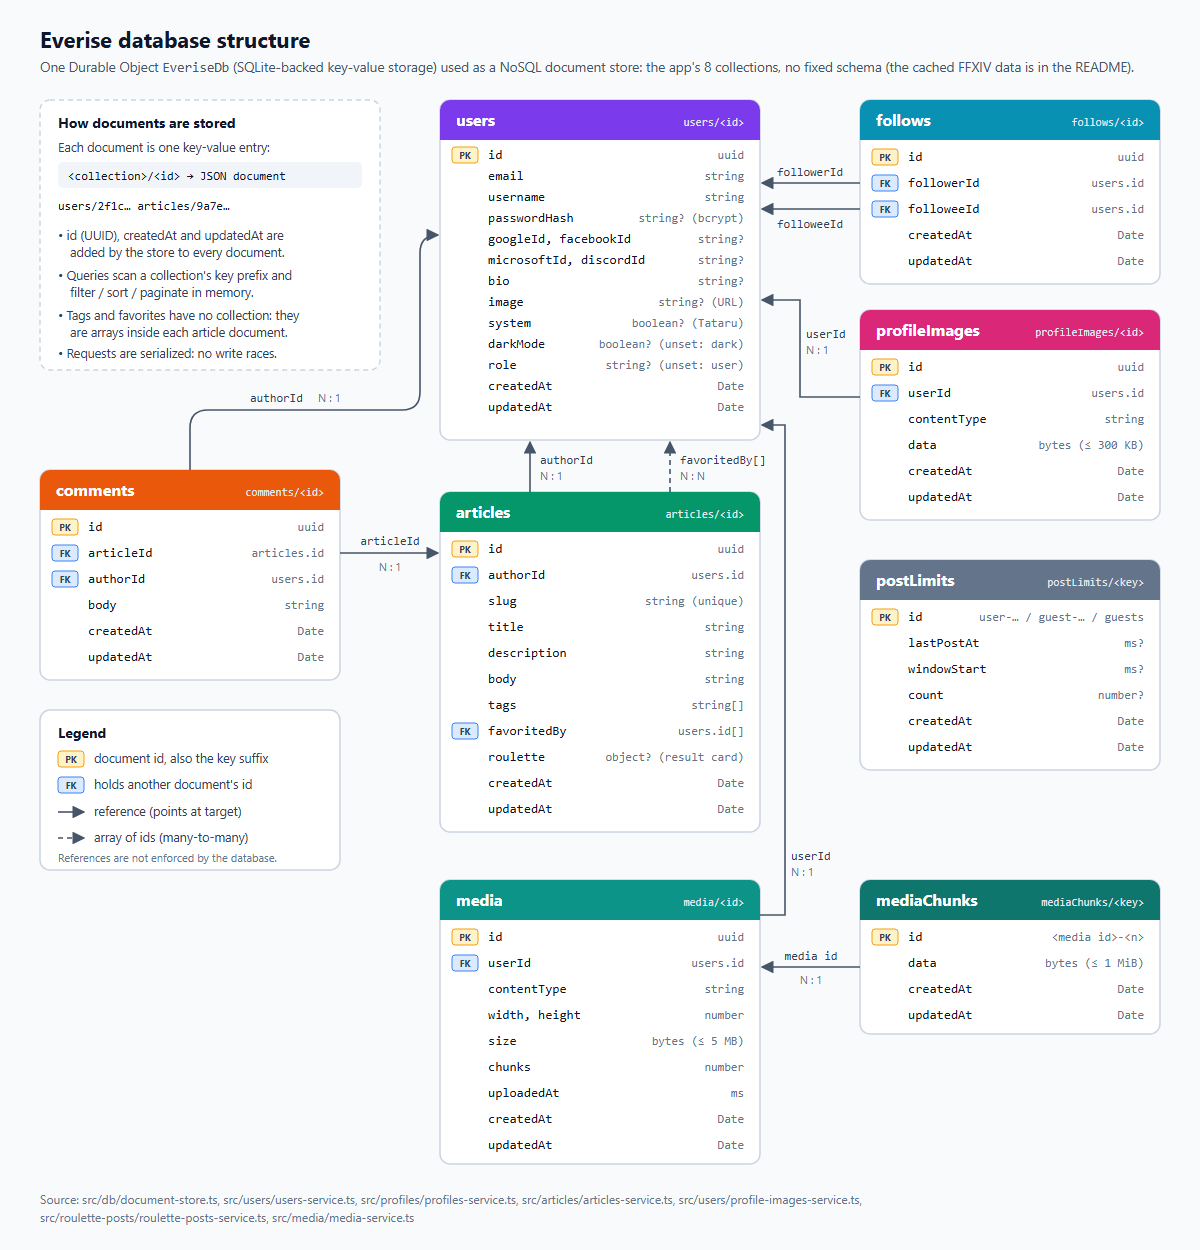
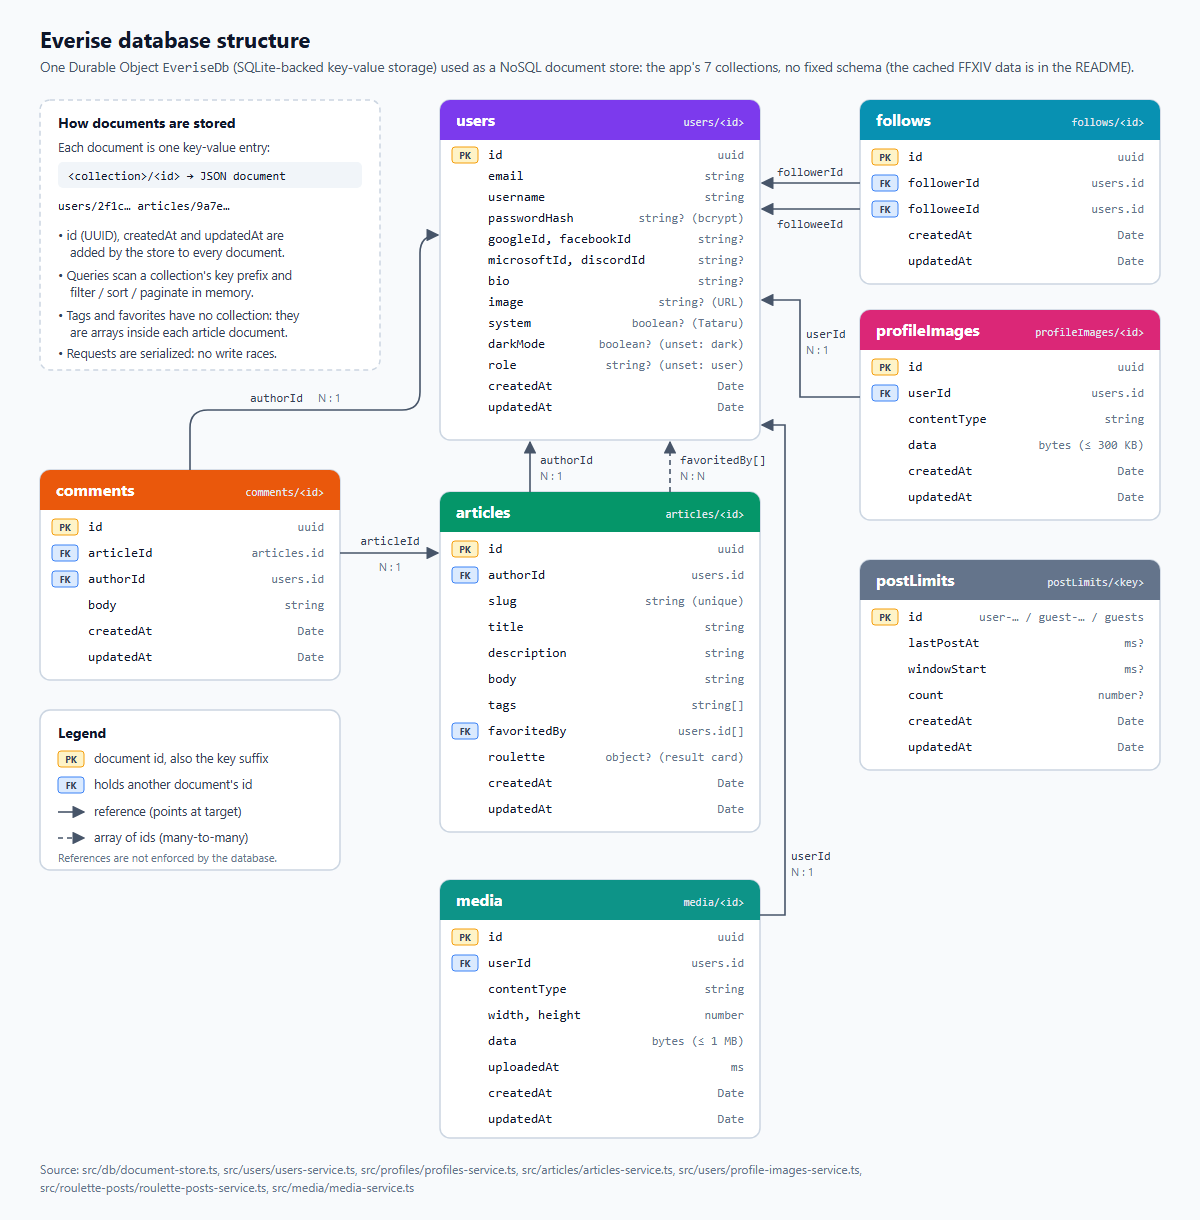
Limit uploads to 1 MB, one document each
The site shrinks large pictures before uploading, so 1 MB is enough; an
upload then fits in one database value, and the mediaChunks collection
goes away.

diff --git a/src/media/media-service.ts b/src/media/media-service.ts
@@ -5,13 +5,12 @@ import {Write} from '../db/db';
 import {InvalidImageError, TooManyRequestsError} from '../errors';
 import {ImageType, readImageInfo} from '../users/image-info';
 
-// Images and GIFs people upload for their posts and comments. A GIF can be
-// several megabytes, more than one database value may hold (2 MiB), so each
-// upload is stored in 1 MiB chunks next to a document describing it.
-const MAX_MEDIA_MB = 5;
-const MAX_MEDIA_BYTES = MAX_MEDIA_MB * 1024 * 1024;
+// Images and GIFs people upload for their posts and comments, one document
+// each with the bytes. The site shrinks large pictures to fit before
+// uploading; GIFs keep their animation, so they must already be small enough.
+const MAX_MEDIA_KB = 1024;
+const MAX_MEDIA_BYTES = MAX_MEDIA_KB * 1024;
 const MAX_MEDIA_SIDE = 4096;
-const CHUNK_BYTES = 1024 * 1024;
 // Uploads per person per day, so nobody fills the free plan's storage.
 const DAILY_UPLOADS = 30;
 const DAY_MS = 24 * 60 * 60 * 1000;
@@ -21,14 +20,9 @@ interface MediaDoc extends Doc {
   contentType: ImageType;
   width: number;
   height: number;
-  size: number;
-  chunks: number;
+  data: Uint8Array;
   // When it was uploaded (ms), by the app's clock, for the daily limit.
   uploadedAt: number;
-}
-
-interface MediaChunkDoc extends Doc {
-  data: Uint8Array;
 }
 
 interface StoredMedia {
@@ -41,7 +35,6 @@ interface StoredMedia {
 
 class MediaService {
   private readonly collection = 'media';
-  private readonly chunksCollection = 'mediaChunks';
 
   constructor(
     private readonly db: Db,
@@ -65,21 +58,12 @@ class MediaService {
     await this.checkDailyLimit(userId);
 
     const id = randomUUID();
-    const chunks = Math.ceil(data.byteLength / CHUNK_BYTES);
-    for (let i = 0; i < chunks; i++) {
-      await this.db.set(this.chunksCollection, chunkId(id, i), {
-        data: data.slice(i * CHUNK_BYTES, (i + 1) * CHUNK_BYTES),
-      });
-    }
-    // Written last: an upload cut short leaves no document pointing at
-    // missing chunks.
     await this.db.set(this.collection, id, {
       userId,
       contentType: info.type,
       width: info.width,
       height: info.height,
-      size: data.byteLength,
-      chunks,
+      data,
       uploadedAt: this.now().getTime(),
     });
     return {
@@ -93,40 +77,17 @@ class MediaService {
 
   async get(id: string) {
     const doc = await this.db.get<MediaDoc>(this.collection, id);
-    if (!doc) return undefined;
-    const parts: Uint8Array[] = [];
-    for (let i = 0; i < doc.chunks; i++) {
-      const chunk = await this.db.get<MediaChunkDoc>(
-        this.chunksCollection,
-        chunkId(id, i)
-      );
-      if (!chunk) return undefined;
-      parts.push(new Uint8Array(chunk.data));
-    }
-    const data = new Uint8Array(doc.size);
-    let offset = 0;
-    for (const part of parts) {
-      data.set(part, offset);
-      offset += part.byteLength;
-    }
-    return {contentType: doc.contentType, data};
+    return doc && {contentType: doc.contentType, data: doc.data};
   }
 
   // The writes that delete everything a person uploaded, e.g. with their
   // account.
   async deletionsFor(userId: string): Promise<Write[]> {
-    const docs = await this.uploadsOf(userId);
-    return docs.flatMap(doc => [
-      ...Array.from(
-        {length: doc.chunks},
-        (_, i): Write => ({
-          op: 'delete',
-          collection: this.chunksCollection,
-          id: chunkId(doc.id, i),
-        })
-      ),
-      {op: 'delete', collection: this.collection, id: doc.id} as Write,
-    ]);
+    return (await this.uploadsOf(userId)).map(doc => ({
+      op: 'delete',
+      collection: this.collection,
+      id: doc.id,
+    }));
   }
 
   private async checkDailyLimit(userId: string) {
@@ -151,10 +112,6 @@ class MediaService {
   }
 }
 
-function chunkId(id: string, index: number) {
-  return `${id}-${index}`;
-}
-
 // Where an upload is served; the site's own address, through its /api.
 function mediaUrl(id: string) {
   return `${config.baseUrl}/api/media/${id}`;
@@ -162,7 +119,7 @@ function mediaUrl(id: string) {
 
 function tooLarge() {
   return new InvalidImageError(
-    `The image is too large: it can be at most ${MAX_MEDIA_MB} MB.`,
+    'The image is too large: it can be at most 1 MB.',
     413
   );
 }

diff --git a/__tests__/media/media.test.ts b/__tests__/media/media.test.ts
@@ -52,8 +52,8 @@ describe('uploading images and GIFs', () => {
     expect(Buffer.compare(served.body, gif)).toBe(0);
   });
 
-  test('a large GIF is stored in pieces and comes back whole', async () => {
-    const big = pngOf(Math.round(2.5 * 1024 * 1024));
+  test('a 1 MB image is stored and comes back whole', async () => {
+    const big = pngOf(1024 * 1024);
     big[5000] = 7;
     big[big.length - 1] = 9;
 
@@ -67,17 +67,16 @@ describe('uploading images and GIFs', () => {
         res.on('end', () => done(null, Buffer.concat(parts)));
       });
 
-    expect(served.body.length).toBe(big.length);
     expect(Buffer.compare(served.body, big)).toBe(0);
   });
 
   test('refuses what is too large, not an image, or from a guest', async () => {
     const token = await signedIn();
 
-    const large = await upload(token, pngOf(5 * 1024 * 1024 + 1));
+    const large = await upload(token, pngOf(1024 * 1024 + 1));
     expect(large.status).toBe(413);
     expect(large.body.errors.body[0]).toBe(
-      'The image is too large: it can be at most 5 MB.'
+      'The image is too large: it can be at most 1 MB.'
     );
 
     const text = await upload(token, Buffer.from('not an image at all'));

diff --git a/README.md b/README.md
@@ -96,7 +96,7 @@ People upload a profile picture instead of typing a URL.
 
 Posts and comments are Markdown, so images go in as `![description](address)` and a YouTube link on a line of its own shows as a video preview (the site does that). The backend stores uploads and searches GIFs (`src/media`):
 
-- **Uploads** (`POST /api/media`, the file as the body): PNG, JPEG, WebP or GIF, read from the file's bytes, up to **5 MB** and 4096 × 4096 pixels, and **30 a day** per person (429 with `Retry-After` after that). A value in the database holds at most 2 MiB, so each upload is a `media` document plus its bytes in 1 MiB `mediaChunks`. The answer is `{"media": {id, url, contentType, width, height}}`; `GET /api/media/:id` serves it with the same headers as profile pictures (cached for good, `nosniff`, sandboxed). Deleting a member deletes their uploads.
+- **Uploads** (`POST /api/media`, the file as the body): PNG, JPEG, WebP or GIF, read from the file's bytes, up to **1 MB** and 4096 × 4096 pixels (the site shrinks larger pictures before uploading; a GIF keeps its animation, so it must already fit), and **30 a day** per person (429 with `Retry-After` after that). Each upload is one `media` document holding its bytes. The answer is `{"media": {id, url, contentType, width, height}}`; `GET /api/media/:id` serves it with the same headers as profile pictures (cached for good, `nosniff`, sandboxed). Deleting a member deletes their uploads.
 - **GIF search** (`GET /api/gifs?q=…&offset=…`, signed in): GIPHY's search, or trending GIFs without `q`, rated PG-13 at most, 24 a page. The backend calls GIPHY with `GIPHY_API_KEY` so the key stays secret, and answers `{"gifs": [{id, title, previewUrl, url, width, height}], "next": <offset or null>}`; `url` is GIPHY's "downsized medium" rendition. Without the key, `GET /api/gifs/available` says `false` and the site hides the search.
 
 ## Live updates
@@ -169,7 +169,7 @@ The Frontline daily map isn't in the game data, so it is computed without any AP
 
 The database is a single instance, named `everise`, of the `EveriseDb` Durable Object class, with SQLite-backed storage. The app uses it as a small NoSQL document store (`src/db`):
 
-- **Documents and keys.** Every document is a JSON value stored under the key `<collection>/<id>`, e.g. `users/2f1c…`. The app's collections are `users`, `follows`, `articles`, `comments`, `profileImages` (uploaded pictures, one document each with the bytes and the owner's `userId`), `media` and `mediaChunks` (images and GIFs uploaded for posts and comments: a document describing each, and its bytes in 1 MiB pieces) and `postLimits` (when each person last posted a roulette result, and the guests' hourly count). The cached FFXIV data adds `dutyGroups` (one document per duty group), `dutyRoulettes`, `jobs` and `dutyRefreshes` (one document each), which every refresh replaces, and `gameImages` (one document per image, its id the game's icon id, holding the bytes) with `gameImageDownloads` (the refresh's pending downloads and an index of the stored images).
+- **Documents and keys.** Every document is a JSON value stored under the key `<collection>/<id>`, e.g. `users/2f1c…`. The app's collections are `users`, `follows`, `articles`, `comments`, `profileImages` (uploaded pictures, one document each with the bytes and the owner's `userId`), `media` (images and GIFs uploaded for posts and comments, one document each with the bytes and the uploader's `userId`) and `postLimits` (when each person last posted a roulette result, and the guests' hourly count). The cached FFXIV data adds `dutyGroups` (one document per duty group), `dutyRoulettes`, `jobs` and `dutyRefreshes` (one document each), which every refresh replaces, and `gameImages` (one document per image, its id the game's icon id, holding the bytes) with `gameImageDownloads` (the refresh's pending downloads and an index of the stored images).
 - **Common fields.** The store gives every new document an `id` (a UUID, or the id passed to `set`, which creates or replaces a document under a chosen id), `createdAt` and `updatedAt`. An update that changes nothing keeps the old `updatedAt`.
 - **References.** Documents point to each other by id (`authorId`, `articleId`, `followerId`, `followeeId`). The database does not enforce these links; the services check them.
 - **Arrays instead of collections.** An article's tags live in its `tags` array and the users who favorited it in its `favoritedBy` array, so there is no tags or favorites collection.

diff --git a/.claude/skills/db-structure/SKILL.md b/.claude/skills/db-structure/SKILL.md
@@ -24,8 +24,7 @@ The whole database is one Durable Object instance, named `everise`, of the class
 | `follows` | followerId → users, followeeId → users | `src/profiles/profiles-service.ts` |
 | `articles` | authorId → users, slug (unique), title, description, body, tags[], favoritedBy[] → users, roulette? (a roulette result card) | `src/articles/articles-service.ts` (`ArticleDoc`) |
 | `comments` | articleId → articles, authorId → users, body | `src/articles/articles-service.ts` (`CommentDoc`) |
-| `media` | userId → users, contentType, width, height, size (bytes, ≤ 5 MB), chunks, uploadedAt (ms, the daily limit) | `src/media/media-service.ts` (`MediaDoc`) |
-| `mediaChunks` | data (≤ 1 MiB); id `<media id>-<n>` | `src/media/media-service.ts` |
+| `media` | userId → users, contentType, width, height, data (≤ 1 MB), uploadedAt (ms, the daily limit) | `src/media/media-service.ts` (`MediaDoc`) |
 | `postLimits` | lastPostAt?, or windowStart? and count? (id: `user-<id>`, `guest-<hashed address>`, `guests`) | `src/roulette-posts/roulette-posts-service.ts` |
 | `profileImages` | userId → users, contentType, data (bytes, ≤ 300 KB); `users.image` holds its URL | `src/users/profile-images-service.ts` (`ProfileImageDoc`) |
 
@@ -35,12 +34,12 @@ Verify this table against the `*Doc` interfaces and `this.db.create(...)` calls 
 
 ## Updating the diagram
 
-`docs/db-structure.svg` is hand-written SVG (1200×1250) and is what the README embeds; `docs/db-structure.png` is rendered from it. After changing the SVG:
+`docs/db-structure.svg` is hand-written SVG (1200×1220) and is what the README embeds; `docs/db-structure.png` is rendered from it. After changing the SVG:
 
 1. Render the PNG with headless Edge from PowerShell, in the repo root (Bash quoting of the Edge path fails):
    ```
    $repo = (Get-Location).Path
-   & "C:\Program Files (x86)\Microsoft\Edge\Application\msedge.exe" --headless=new --disable-gpu --hide-scrollbars --window-size=1200,1250 "--screenshot=$repo\docs\db-structure.png" "file:///$($repo -replace '\\','/')/docs/db-structure.svg"
+   & "C:\Program Files (x86)\Microsoft\Edge\Application\msedge.exe" --headless=new --disable-gpu --hide-scrollbars --window-size=1200,1220 "--screenshot=$repo\docs\db-structure.png" "file:///$($repo -replace '\\','/')/docs/db-structure.svg"
    ```
    Match `--window-size` to the SVG's width and height.
 2. Read the PNG to check the layout visually (overlapping labels, crossing arrows) before committing.
